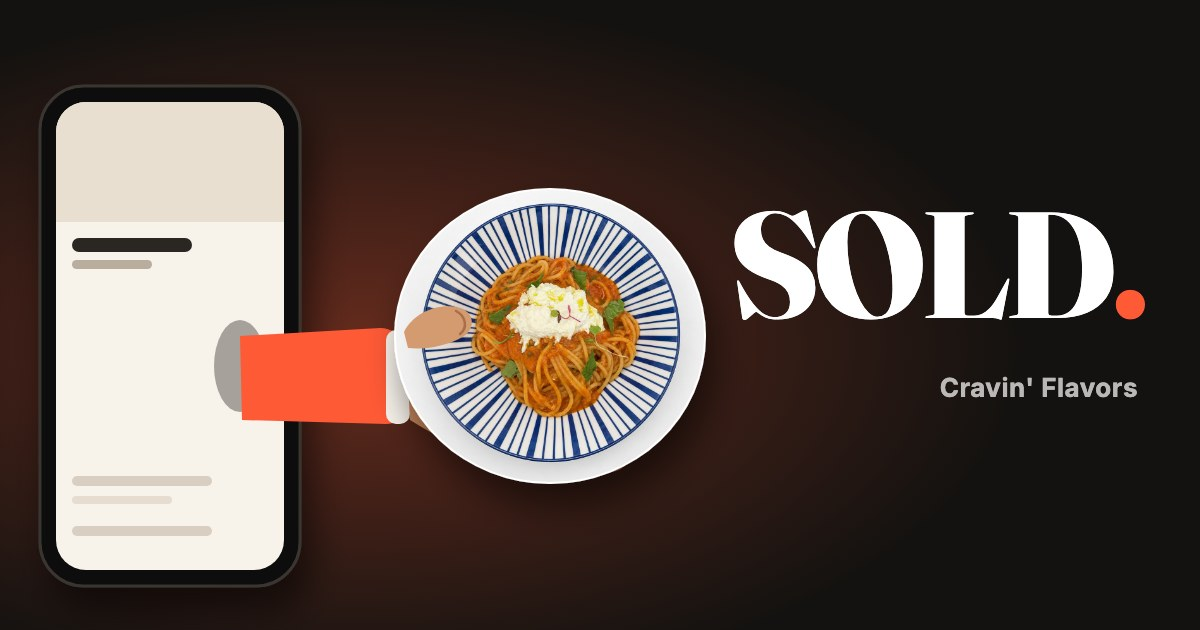
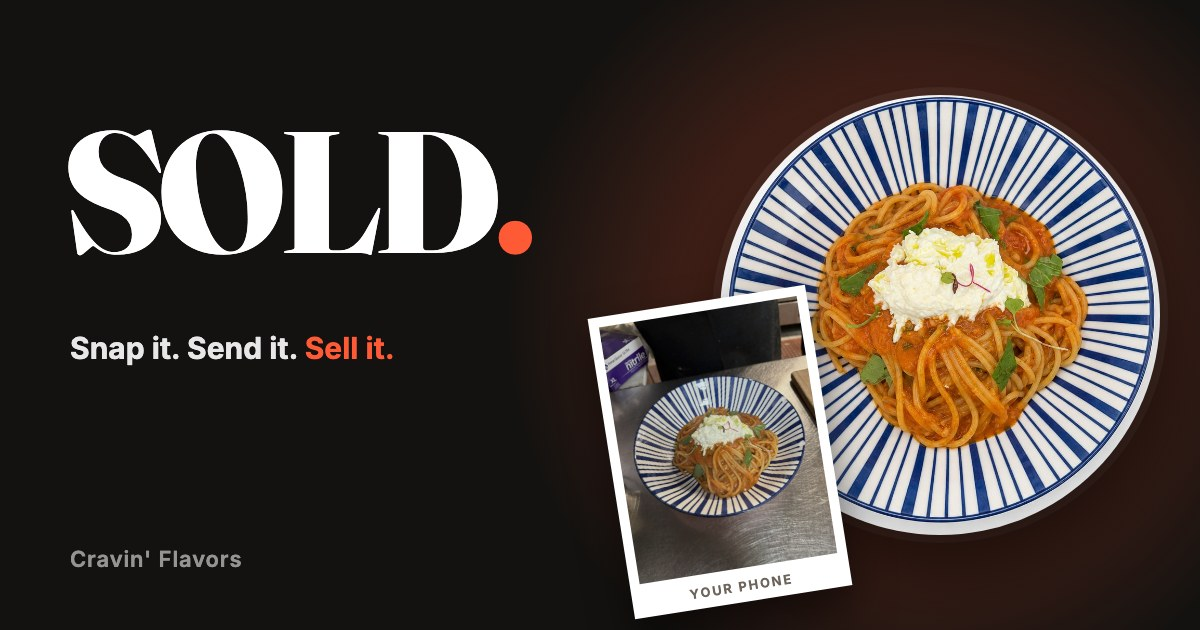
Cravin' Flavors share preview: phone snapshot to finished plate + SOLD., title 'From your kitchen to your online storefront'

diff --git a/cravinflavors/index.html b/cravinflavors/index.html
@@ -4,17 +4,17 @@
 <meta charset="utf-8">
 <meta name="robots" content="noindex">
 <meta name="viewport" content="width=device-width, initial-scale=1, viewport-fit=cover">
-<title>Cravin' Flavors - Menu photos for DoorDash and Uber Eats</title>
-<meta name="description" content="Snap every dish on your phone. We turn it into menu photos that sell on DoorDash and Uber Eats.">
+<title>Cravin' Flavors - Menu photos that sell online</title>
+<meta name="description" content="Snap every dish on your phone. We turn it into menu photos that sell online.">
 <meta property="og:type" content="website">
 <meta property="og:site_name" content="Cravin' Flavors">
-<meta property="og:title" content="From your kitchen to DoorDash and Uber Eats">
+<meta property="og:title" content="From your kitchen to your online storefront">
 <meta property="og:description" content="Snap it. Send it. Sell it.">
 <meta property="og:url" content="https://cravinadventure.com/cravinflavors/">
 <meta property="og:image" content="https://cravinadventure.com/cravinflavors/assets/og-cravinflavors.jpg">
 <meta property="og:image:width" content="1200">
 <meta property="og:image:height" content="630">
-<meta property="og:image:alt" content="Cravin' Flavors: a phone photo of a dish turned into a clean menu photo for DoorDash and Uber Eats">
+<meta property="og:image:alt" content="A phone snapshot of a dish next to the finished menu photo. SOLD.">
 <meta name="twitter:image" content="https://cravinadventure.com/cravinflavors/assets/og-cravinflavors.jpg">
 <link rel="canonical" href="https://cravinadventure.com/cravinflavors/">
 <link rel="icon" type="image/png" sizes="32x32" href="assets/favicon-32.png">

diff --git a/menu-photos/index.html b/menu-photos/index.html
@@ -2,12 +2,12 @@
 <html lang="en">
 <head>
 <meta charset="utf-8">
-<title>Cravin' Flavors - Menu photos for DoorDash and Uber Eats</title>
+<title>Cravin' Flavors - Menu photos that sell online</title>
 <meta name="robots" content="noindex">
-<meta name="description" content="Snap every dish on your phone. We turn it into menu photos that sell on DoorDash and Uber Eats.">
+<meta name="description" content="Snap every dish on your phone. We turn it into menu photos that sell online.">
 <meta property="og:type" content="website">
 <meta property="og:site_name" content="Cravin' Flavors">
-<meta property="og:title" content="From your kitchen to DoorDash and Uber Eats">
+<meta property="og:title" content="From your kitchen to your online storefront">
 <meta property="og:description" content="Snap it. Send it. Sell it.">
 <meta property="og:url" content="https://cravinadventure.com/cravinflavors/">
 <meta property="og:image" content="https://cravinadventure.com/cravinflavors/assets/og-cravinflavors.jpg">

diff --git a/menu-photos/privacy/index.html b/menu-photos/privacy/index.html
@@ -2,12 +2,12 @@
 <html lang="en">
 <head>
 <meta charset="utf-8">
-<title>Cravin' Flavors - Menu photos for DoorDash and Uber Eats</title>
+<title>Cravin' Flavors - Menu photos that sell online</title>
 <meta name="robots" content="noindex">
-<meta name="description" content="Snap every dish on your phone. We turn it into menu photos that sell on DoorDash and Uber Eats.">
+<meta name="description" content="Snap every dish on your phone. We turn it into menu photos that sell online.">
 <meta property="og:type" content="website">
 <meta property="og:site_name" content="Cravin' Flavors">
-<meta property="og:title" content="From your kitchen to DoorDash and Uber Eats">
+<meta property="og:title" content="From your kitchen to your online storefront">
 <meta property="og:description" content="Snap it. Send it. Sell it.">
 <meta property="og:url" content="https://cravinadventure.com/cravinflavors/">
 <meta property="og:image" content="https://cravinadventure.com/cravinflavors/assets/og-cravinflavors.jpg">

diff --git a/photos/index.html b/photos/index.html
@@ -2,12 +2,12 @@
 <html lang="en">
 <head>
 <meta charset="utf-8">
-<title>Cravin' Flavors - Menu photos for DoorDash and Uber Eats</title>
+<title>Cravin' Flavors - Menu photos that sell online</title>
 <meta name="robots" content="noindex">
-<meta name="description" content="Snap every dish on your phone. We turn it into menu photos that sell on DoorDash and Uber Eats.">
+<meta name="description" content="Snap every dish on your phone. We turn it into menu photos that sell online.">
 <meta property="og:type" content="website">
 <meta property="og:site_name" content="Cravin' Flavors">
-<meta property="og:title" content="From your kitchen to DoorDash and Uber Eats">
+<meta property="og:title" content="From your kitchen to your online storefront">
 <meta property="og:description" content="Snap it. Send it. Sell it.">
 <meta property="og:url" content="https://cravinadventure.com/cravinflavors/">
 <meta property="og:image" content="https://cravinadventure.com/cravinflavors/assets/og-cravinflavors.jpg">
